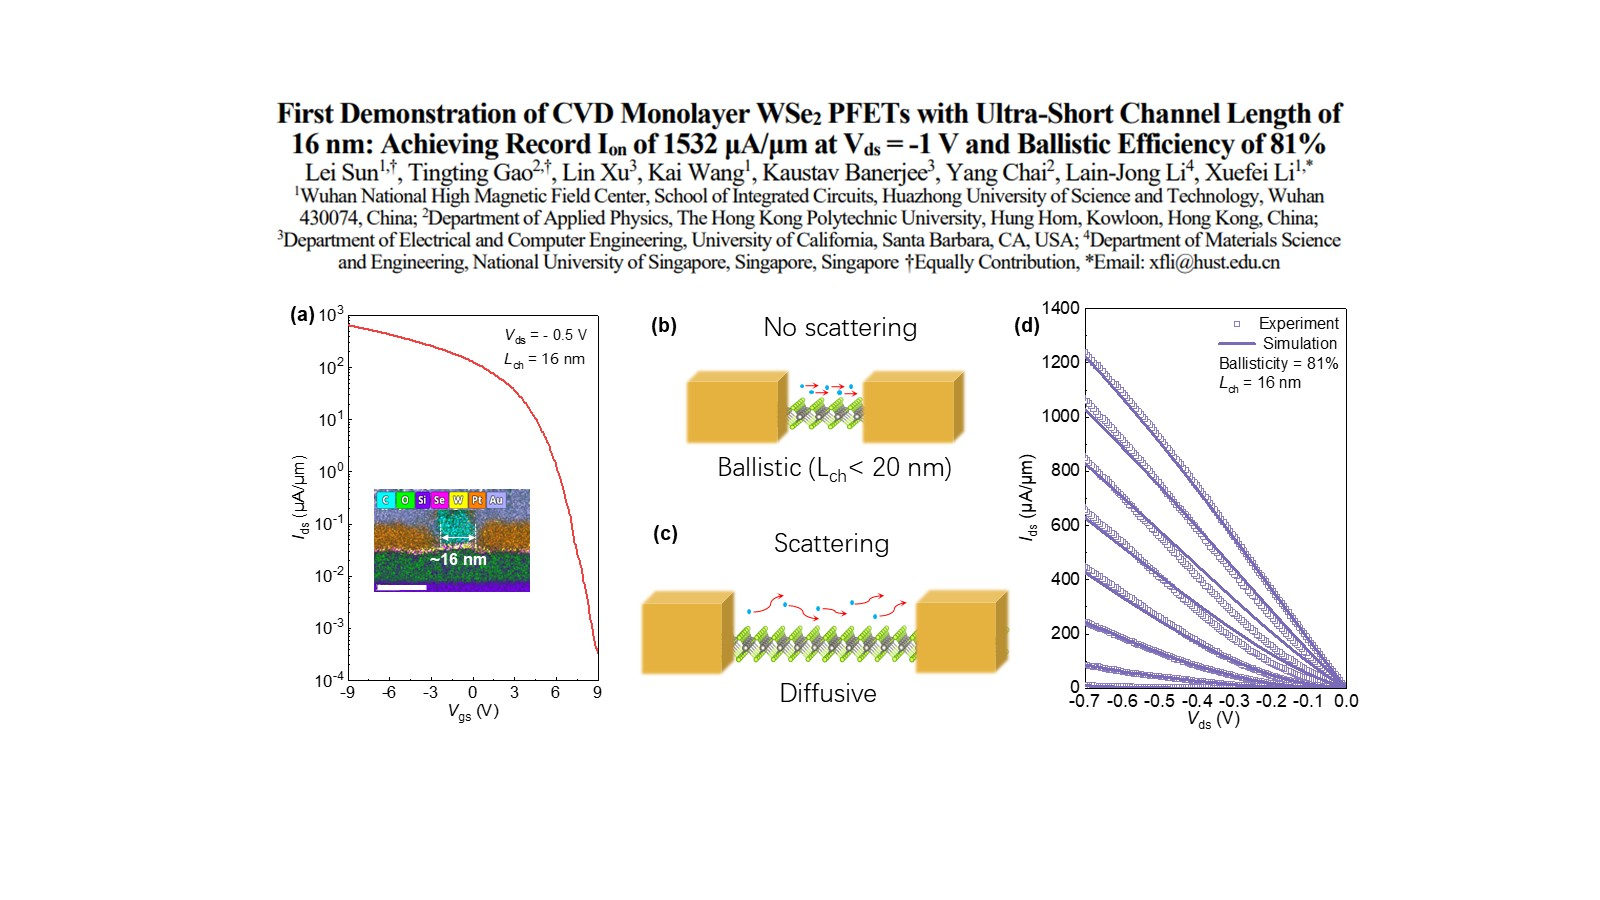
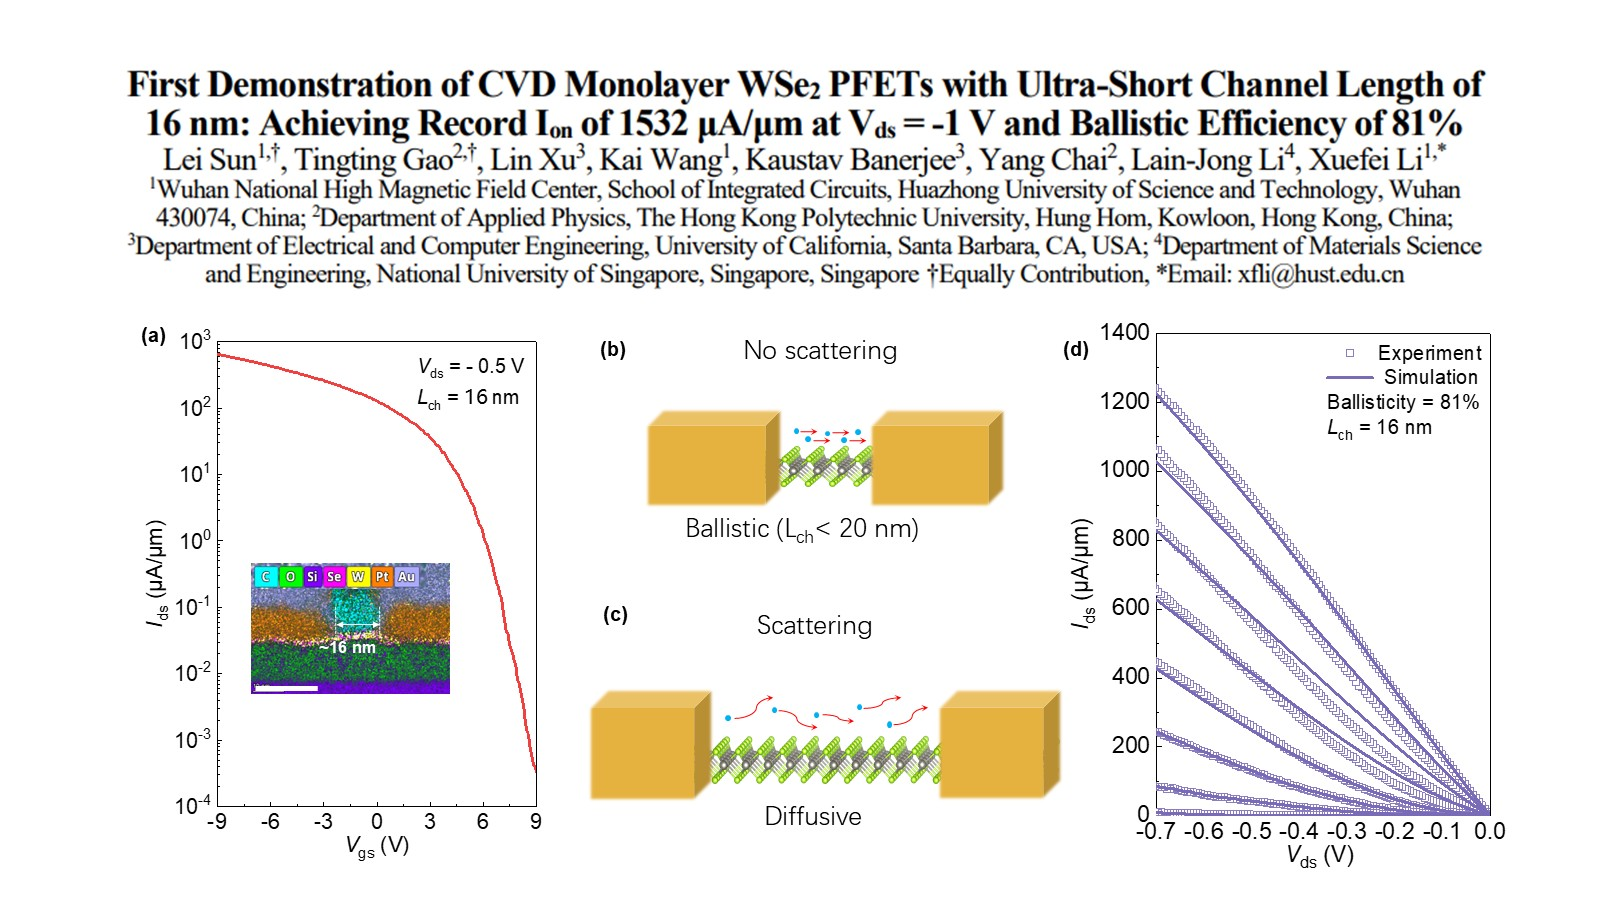
Replace hero slides 3-5 with the newer paper layouts; sync alt text and dot labels

diff --git a/index.html b/index.html
@@ -52,13 +52,13 @@
         <img src="assets/home/slide-2.jpg" alt="Low contact resistance in ballistic p-type WSe2" width="1600" height="900" loading="lazy" decoding="async">
       </div>
       <div class="hc-slide">
-        <img src="assets/home/slide-3.jpg" alt="High-performance p-type monolayer WSe2" width="1600" height="900" loading="lazy" decoding="async">
+        <img src="assets/home/slide-3.jpg" alt="High-performance p-type monolayer WSe2 transistors, Nature Electronics" width="1600" height="900" loading="lazy" decoding="async">
       </div>
       <div class="hc-slide">
-        <img src="assets/home/slide-4.jpg" alt="16-nm CVD monolayer WSe2 pFET" width="1600" height="900" loading="lazy" decoding="async">
+        <img src="assets/home/slide-4.jpg" alt="16-nm CVD monolayer WSe2 pFET, VLSI Symposium" width="1600" height="900" loading="lazy" decoding="async">
       </div>
       <div class="hc-slide">
-        <img src="assets/home/slide-5.jpg" alt="High-stability ultrathin oxide transistors" width="1600" height="900" loading="lazy" decoding="async">
+        <img src="assets/home/slide-5.jpg" alt="High-stability ultrathin oxide transistors for capacitorless DRAM, Advanced Materials" width="1600" height="900" loading="lazy" decoding="async">
       </div>
 
       <button class="hc-arrow hc-prev" type="button" aria-label="Previous slide">
@@ -71,9 +71,9 @@
       <div class="hc-dots" role="tablist" aria-label="Choose slide">
         <button class="hc-dot is-active" type="button" role="tab" aria-selected="true" aria-label="High-performance annealing-free wurtzite FeFETs"></button>
         <button class="hc-dot" type="button" role="tab" aria-selected="false" aria-label="Low contact resistance in ballistic p-type WSe2"></button>
-        <button class="hc-dot" type="button" role="tab" aria-selected="false" aria-label="High-performance p-type monolayer WSe2"></button>
+        <button class="hc-dot" type="button" role="tab" aria-selected="false" aria-label="High-performance p-type monolayer WSe2 transistors"></button>
         <button class="hc-dot" type="button" role="tab" aria-selected="false" aria-label="16-nm CVD monolayer WSe2 pFET"></button>
-        <button class="hc-dot" type="button" role="tab" aria-selected="false" aria-label="High-stability ultrathin oxide transistors"></button>
+        <button class="hc-dot" type="button" role="tab" aria-selected="false" aria-label="High-stability ultrathin oxide transistors for DRAM"></button>
       </div>
     </div>
 
